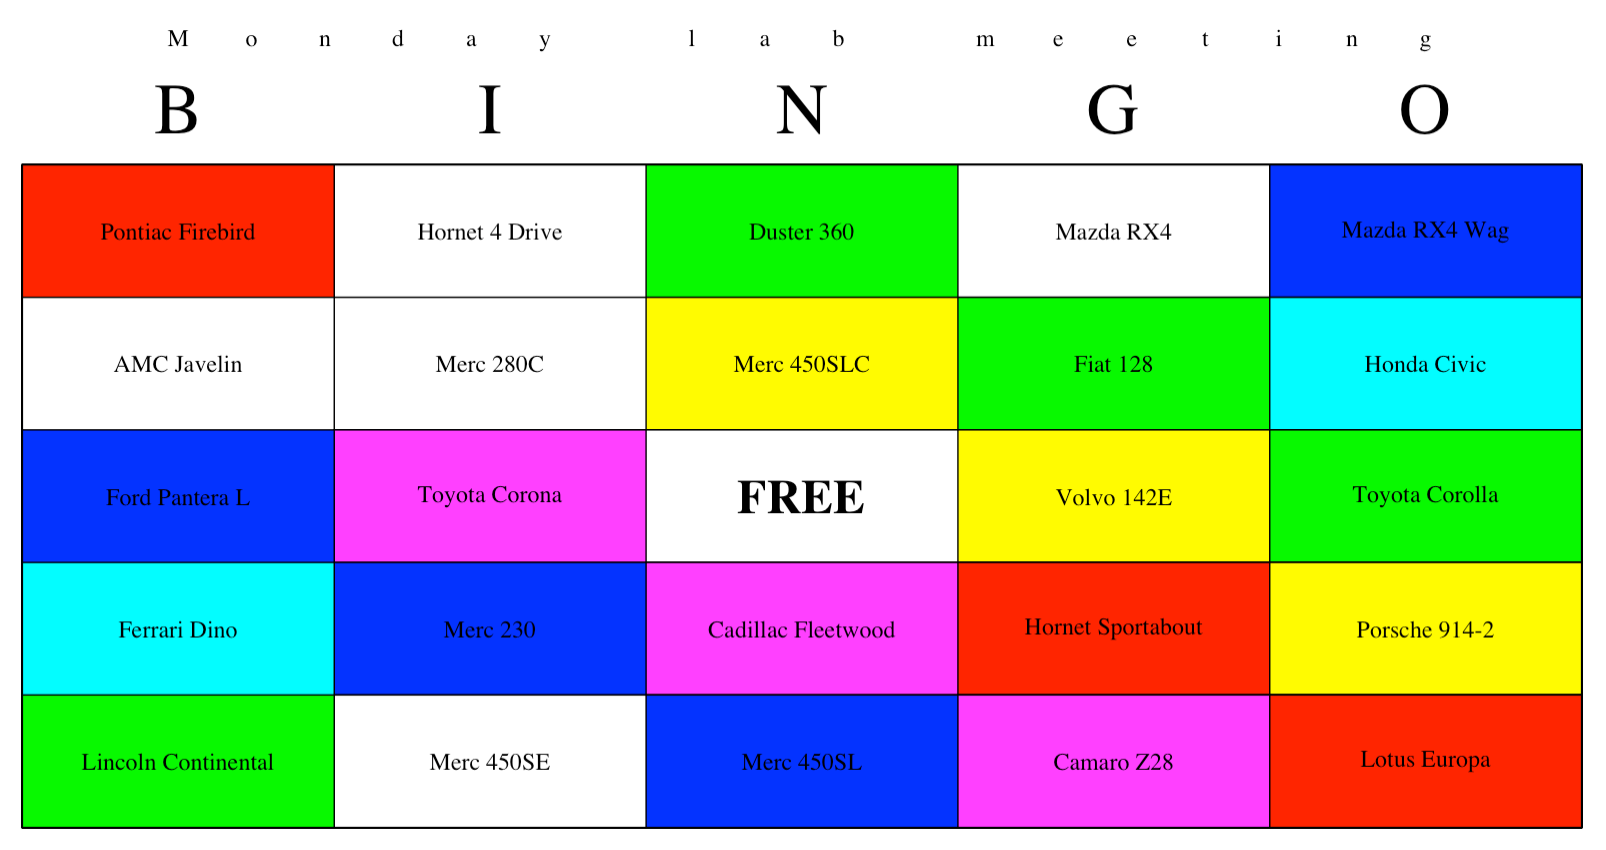
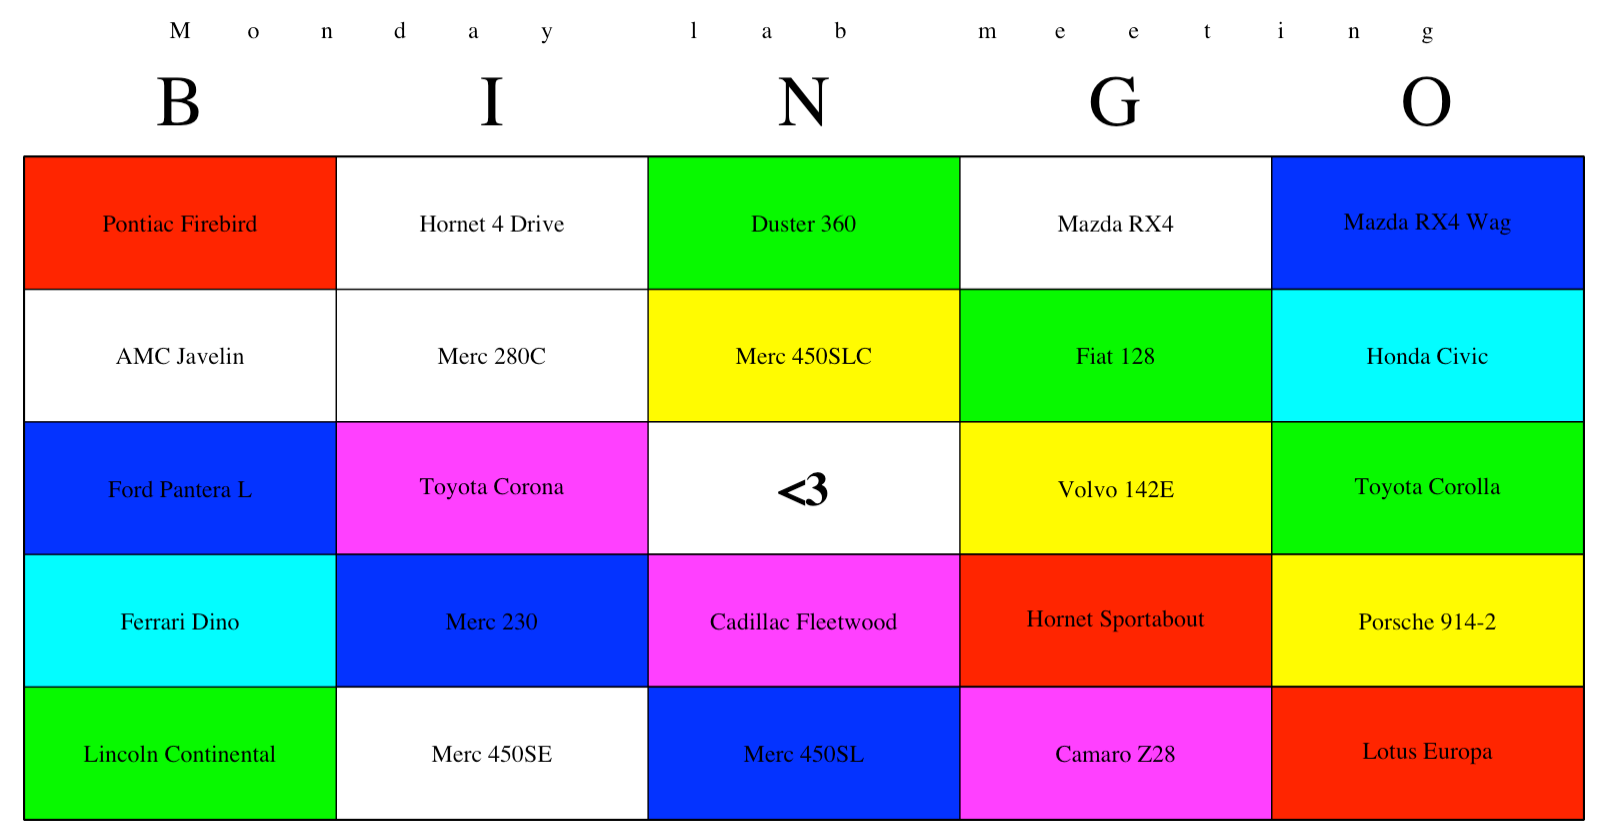
minor changes

diff --git a/README.md b/README.md
@@ -39,7 +39,7 @@ ccbingo(cards$zoom)
 ```r
 ccbingo(
   rownames(mtcars), wins = function(x) if (sum(x) >= 6) '6 or more' else '',
-  title = 'Monday lab meeting',
+  title = 'Monday lab meeting', free = '<3',
   col.grid = rainbow(6), col.free = 'white', col.select = 'white'
 )
 ```
